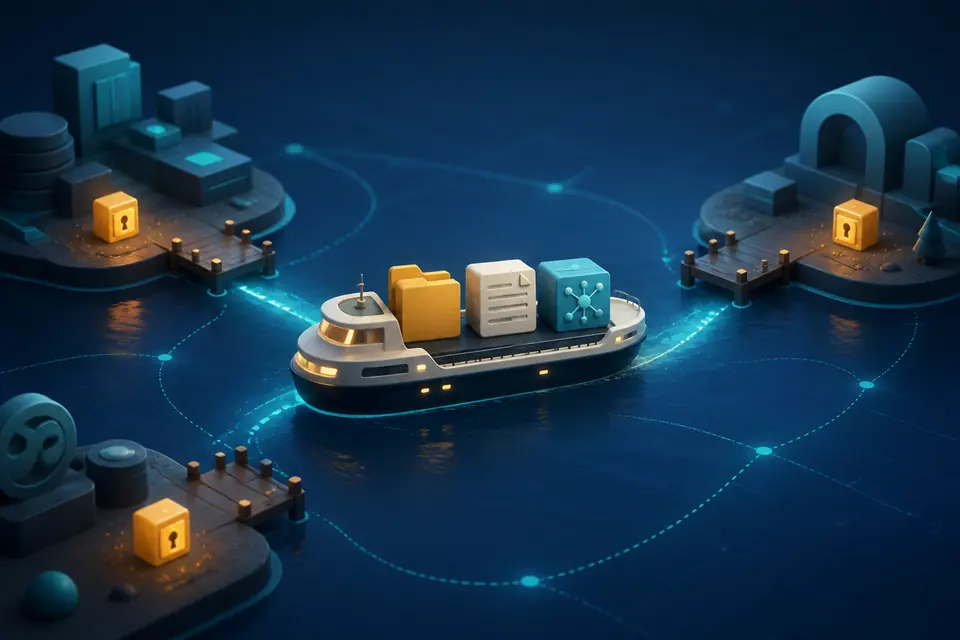
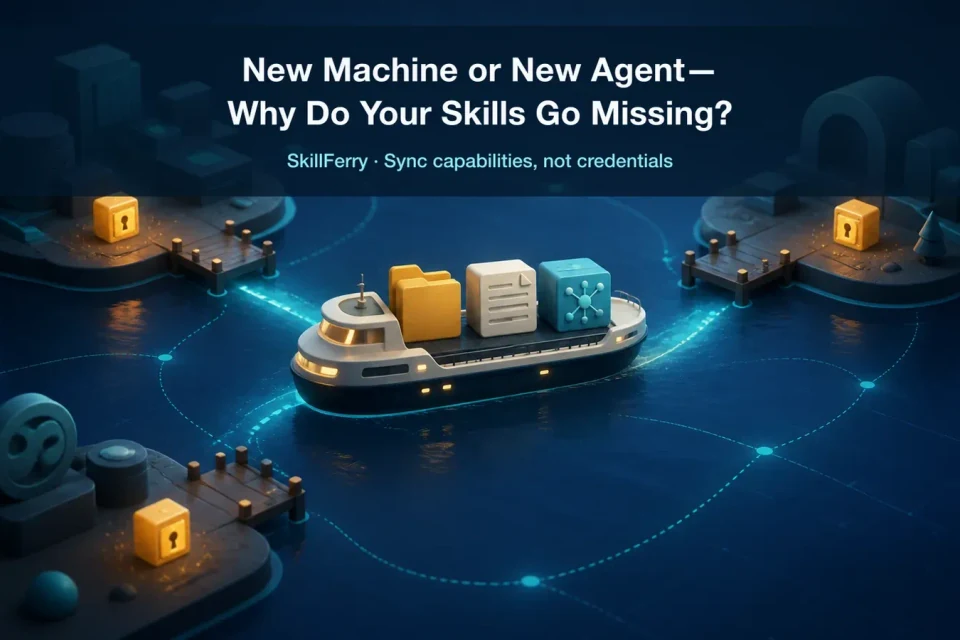
Fix SkillFerry cover family and version-neutral copy

diff --git a/_posts/2026-08-21-new-machine-or-new-agent-why-do-your-skills-go-missing.md b/_posts/2026-08-21-new-machine-or-new-agent-why-do-your-skills-go-missing.md
@@ -110,7 +110,7 @@ skillferry doctor
 
 Already on Codex? Start with `import --from codex` and review the generated workspace instead of writing the schema by hand. Coming from [codex-profile-sync](https://github.com/GreenLv/codex-profile-sync)? There is a `migrate --from codex-profile-sync` command for that. The repo also ships a runnable starter workspace and two seed skills, so you can inspect all three target renderings in an isolated directory before committing to anything.
 
-## Who it's for—and where v1 draws the line
+## Who it's for—and where it draws the line
 
 If you use one agent on one machine and have not accumulated skills or rules yet, manual setup may still be simpler.
 
@@ -122,7 +122,7 @@ SkillFerry earns its keep when:
 - you want a preview before applying, and explicit disclosure when semantics are lost;
 - you want Git to carry shareable definitions without credentials or runtime state.
 
-Version 1 deliberately skips GUI, SSH targets, a team layer, session or memory sync, provider management, and lossless conversion of arbitrary plugins. macOS and Windows each have independent native acceptance records—the Windows machine had no Claude Code installed, so it verified the rendered config shape without starting the process. CI is a separate automated gate, not native acceptance. The full boundary is in the [portability contract](https://github.com/GreenLv/skillferry/blob/main/docs/PORTABILITY_CONTRACT.md), the [capability evidence matrix](https://github.com/GreenLv/skillferry/blob/main/docs/AGENT_MATRIX.md), and the [0.1.0 release acceptance record](https://github.com/GreenLv/skillferry/blob/main/docs/acceptance/release-0.1.0.md).
+It deliberately skips GUI, SSH targets, a team layer, session or memory sync, provider management, and lossless conversion of arbitrary plugins. macOS and Windows each have independent native acceptance records—the Windows machine had no Claude Code installed, so it verified the rendered config shape without starting the process. CI is a separate automated gate, not native acceptance. The full boundary is in the [portability contract](https://github.com/GreenLv/skillferry/blob/main/docs/PORTABILITY_CONTRACT.md), the [capability evidence matrix](https://github.com/GreenLv/skillferry/blob/main/docs/AGENT_MATRIX.md), and the [documentation and acceptance records](https://github.com/GreenLv/skillferry/blob/main/docs/README.md).
 
 ## Let your way of working follow you
 
